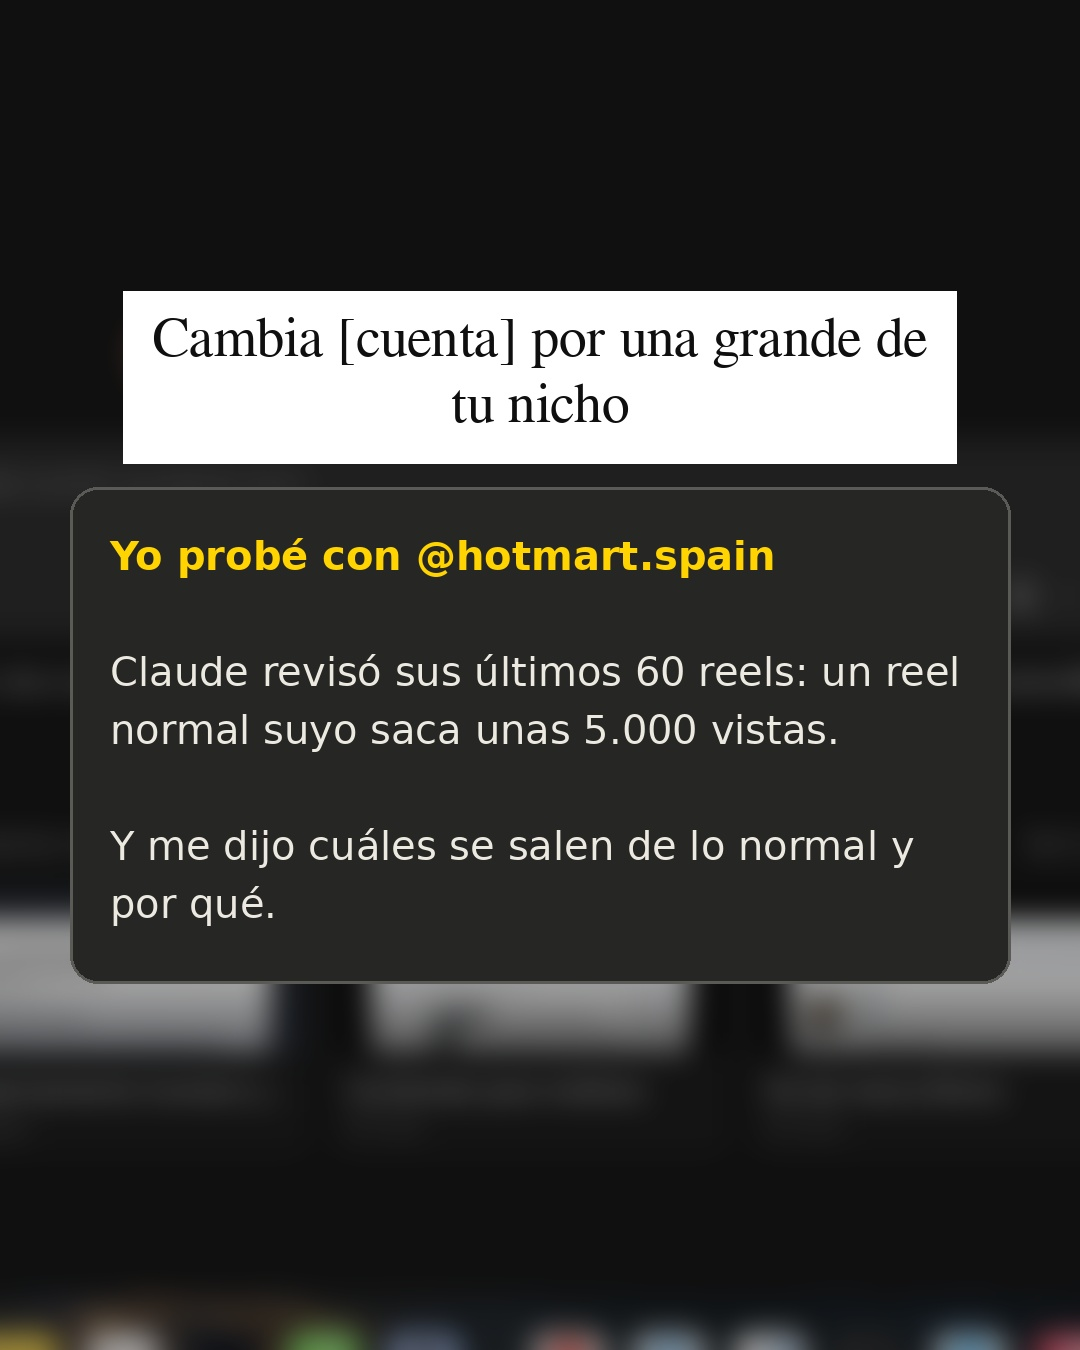
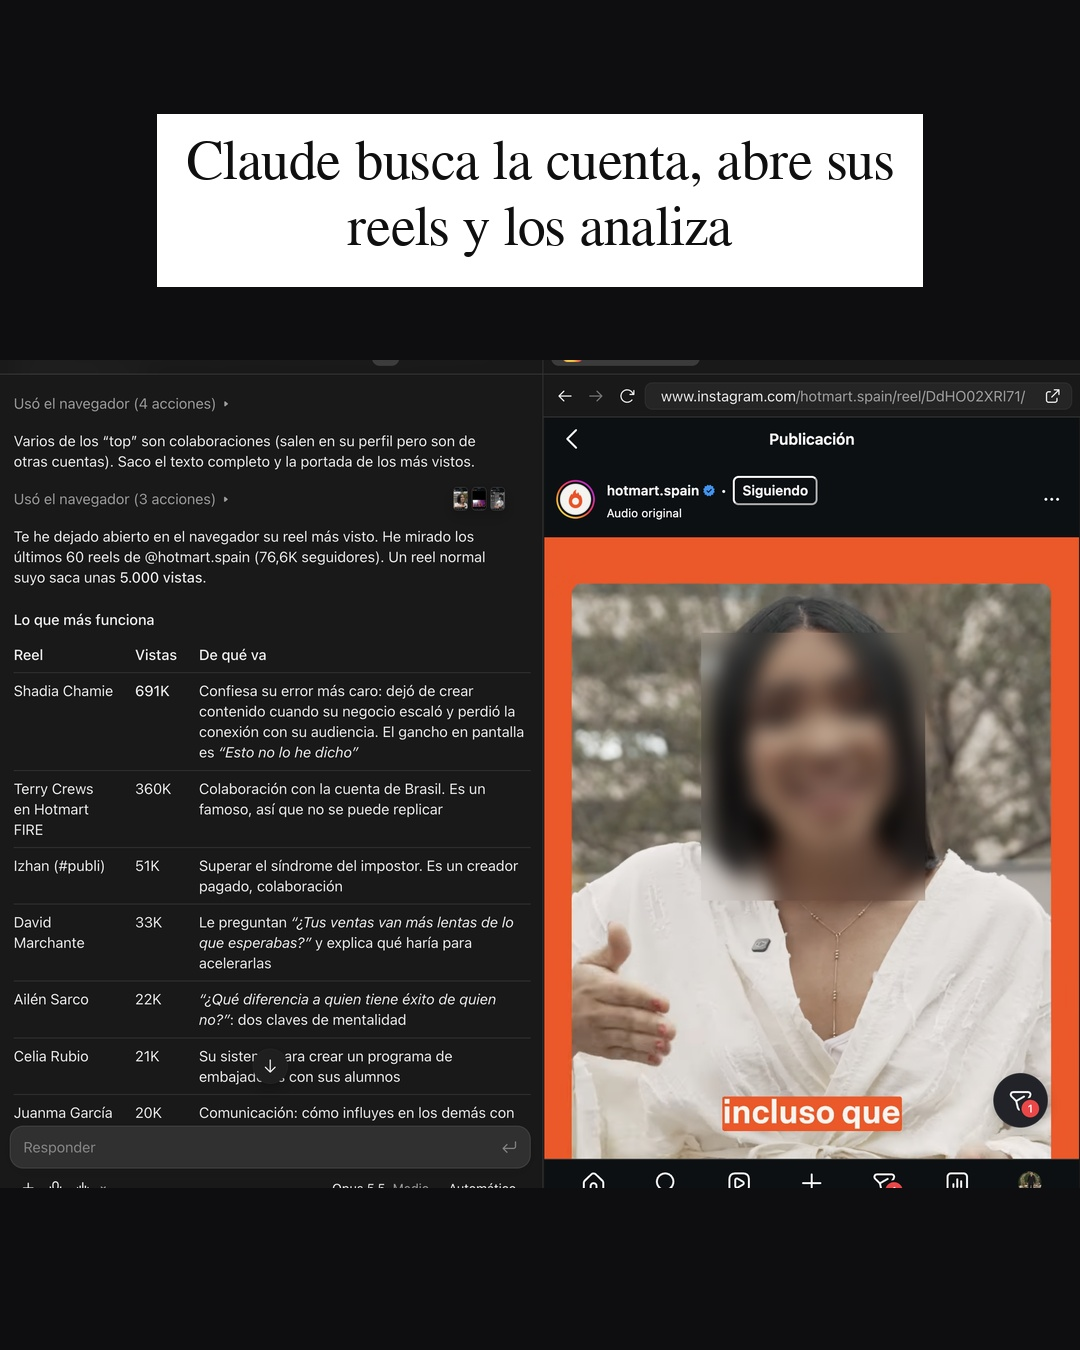
carrusel truco Claude: vuelve la captura de Claude buscando (S44)
Claude-Session: https://claude.ai/code/session_019DyBrHCbMVoQvLSjnT47qN

diff --git a/semanas/2026-S44/instagram/2026-10-29_carrusel-truco-claude.md b/semanas/2026-S44/instagram/2026-10-29_carrusel-truco-claude.md
@@ -8,7 +8,7 @@ Fotos de Breno con el fondo de la oficina cambiado por el estudio. Capturas real
 1. ¿No sabes qué grabar? Claude te lo dice en 2 minutos
 2. Antes, guárdalo y compártelo con ese amigo que crea contenido
 3. Abre Claude y pega este PROMPT
-4. Cambia [cuenta] por una grande de tu nicho (ejemplo real con @hotmart.spain)
+4. Claude busca la cuenta, abre sus reels y los analiza (captura real con @hotmart.spain)
 5. Te dice qué le funciona y cuántas vistas tiene
 6. Y qué tienes que grabar tú
 7. ¿Quieres el prompt? Comenta IDEAS y te lo mando por privado
